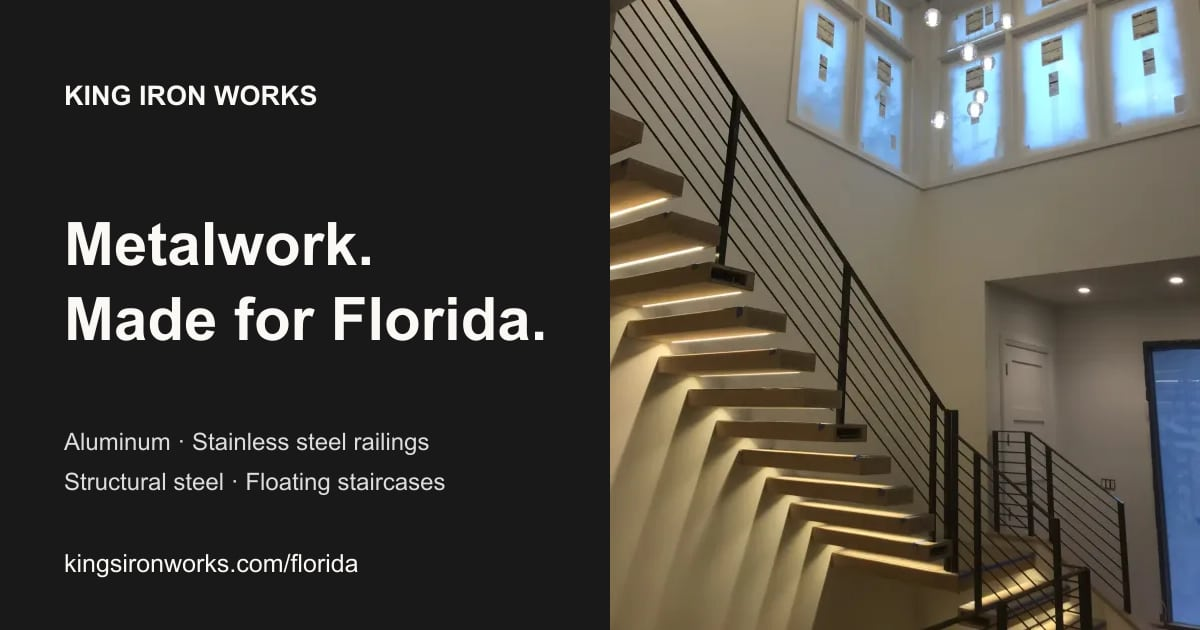
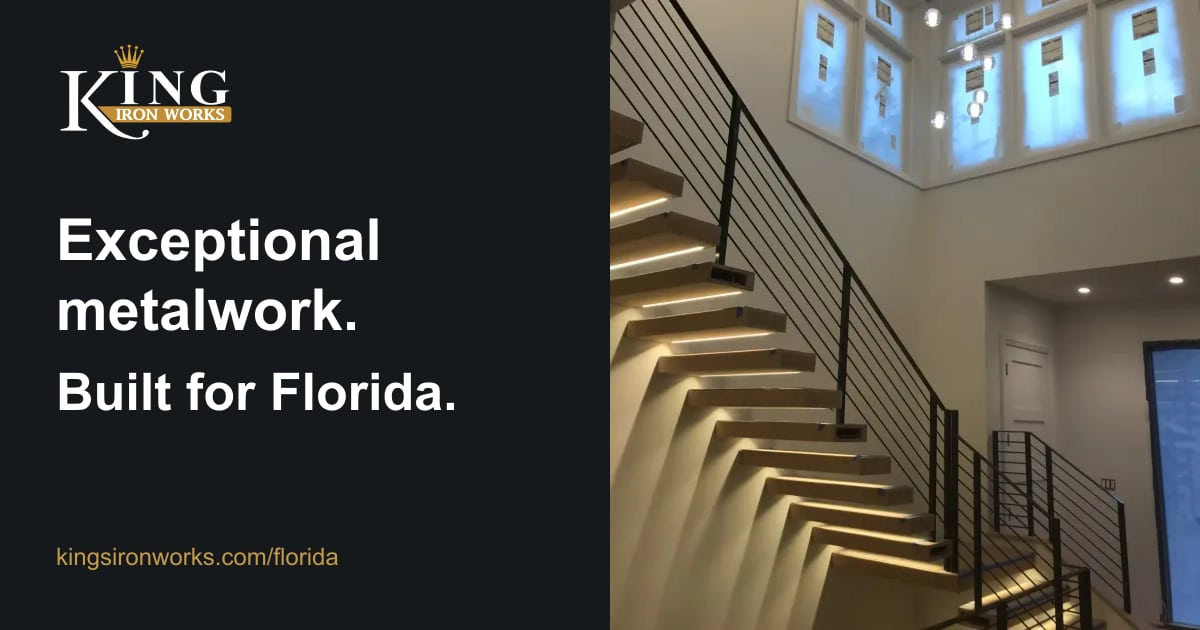
Redesign Florida landing with full company navigation and gold branding

diff --git a/src/app/florida/page.tsx b/src/app/florida/page.tsx
@@ -34,20 +34,22 @@ function Photo({ name, alt, eager = false }: { name: string; alt: string; eager?
 export default function FloridaPage() {
   return <div className="fl-page">
     <a href="#fl-main" className="fl-skip">Skip to content</a>
-    <header className="fl-header fl-wrap"><Link href="/" aria-label="King Iron Works home"><img src="/florida/king-iron-works.svg" alt="King Iron Works" width="160" height="92" /></Link><nav aria-label="Florida navigation"><a href="#services">Services</a><a href="#work">Our work</a><a href="#estimate" className="fl-button">Request an estimate <ArrowUpRight size={17}/></a></nav><a className="fl-header-call" href={`tel:+${phone.tel}`} aria-label="Call King Iron Works Florida"><Phone size={22}/></a></header>
+    <div className="fl-masthead"><div className="fl-utility fl-wrap"><span>Florida operations · Residential &amp; commercial metalwork</span><a href={`tel:+${phone.tel}`}>Florida team {phone.display}</a></div>
+    <header className="fl-header fl-wrap"><Link href="/" aria-label="King Iron Works home"><img src="/florida/king-iron-works.svg" alt="King Iron Works" width="160" height="92" /></Link><nav aria-label="Main website"><Link href="/">Home</Link><Link href="/services">Services</Link><Link href="/portfolio">Projects</Link><Link href="/about">Our company</Link><Link href="/locations">Locations</Link><Link href="/contact">Contact</Link></nav><a href="#estimate" className="fl-button fl-header-estimate">Request an estimate <ArrowUpRight size={17}/></a><details className="fl-mobile-menu"><summary>Menu</summary><nav aria-label="Mobile website"><Link href="/">Home</Link><Link href="/services">All services</Link><Link href="/portfolio">Project portfolio</Link><Link href="/about">Our company</Link><Link href="/locations">Locations</Link><Link href="/contact">Contact</Link><a href="#estimate">Florida estimate</a></nav></details></header></div>
     <main id="fl-main">
-      <section className="fl-hero fl-wrap">
-        <div className="fl-hero-copy"><nav aria-label="Breadcrumb" className="fl-breadcrumb"><Link href="/">Home</Link><span aria-hidden="true">/</span><span>Florida</span></nav><h1>Metalwork.<br/>Made for Florida.</h1><p>Bring your plans to life with metalwork built around your space.</p><div className="fl-actions"><a href="#estimate" className="fl-button">Let’s talk about your project <ArrowUpRight size={18}/></a><a href={`tel:+${phone.tel}`} className="fl-call">{phone.display}</a></div><FloridaLocalArea/></div>
-        <figure className="fl-hero-photo"><Photo name="floating" alt="King Iron Works floating staircase with illuminated treads and slim metal railings" eager/><figcaption>Floating staircase · From our project portfolio</figcaption></figure>
+      <section className="fl-hero">
+        <figure className="fl-hero-photo"><Photo name="floating" alt="King Iron Works floating staircase with illuminated treads and slim metal railings" eager/><figcaption>Floating staircase · King Iron Works project portfolio</figcaption></figure>
+        <div className="fl-wrap fl-hero-inner"><div className="fl-hero-copy"><h1>Exceptional metalwork.<br/>Built for Florida.</h1><p>Architectural detail. Structural strength. Custom fabrication and installation for your next Florida project.</p><div className="fl-actions"><a href="#estimate" className="fl-button">Discuss your project <ArrowUpRight size={18}/></a><Link href="/portfolio" className="fl-hero-secondary">Explore our projects <ArrowUpRight size={18}/></Link></div><FloridaLocalArea/></div></div>
       </section>
-      <section id="services" className="fl-section fl-wrap"><div className="fl-section-intro"><h2>Four specialties.<br/>One considered finish.</h2><p>From the structure you rely on to the details you see every day. Choose the right metalwork for the way your property is built and used.</p></div><div className="fl-services">{services.map(s => <article id={s.id} key={s.id} className="fl-service"><div><h3>{s.title}</h3><p className="fl-service-line">{s.line}</p></div><div><p>{s.text}</p><p>{s.detail}</p><Link href={s.link} className="fl-text-link">{s.label}<ArrowUpRight size={18}/></Link></div></article>)}</div><a href="#estimate" className="fl-text-link">Tell us what you’re planning <ArrowRight size={18}/></a></section>
+      <nav className="fl-service-nav" aria-label="Florida specialties"><div className="fl-wrap">{services.map(s=><a key={s.id} href={`#${s.id}`}>{s.title}<ArrowUpRight size={18}/></a>)}</div></nav>
       <section id="work" className="fl-work"><div className="fl-wrap fl-work-grid"><figure><Photo name="stainless" alt="Open-riser steel staircase with glass panels and stainless steel railing details"/><figcaption>Glass, metal and open treads · King Iron Works portfolio</figcaption></figure><div><h2>Details that make<br/>the whole room.</h2><p>A railing should frame the view. A staircase should connect the space. The best result comes from considering the steel, the finish and the surrounding architecture together.</p><p>Explore our completed work for ideas, then bring us the details of your Florida project.</p><Link href="/portfolio/staircases" className="fl-text-link">View the staircase portfolio <ArrowUpRight size={18}/></Link></div></div><div className="fl-wrap fl-bridge"><div className="fl-bridge-intro"><h2>Built to connect.</h2><div><p>Structural steel that brings an architectural vision together. From beams and columns to a bridge between buildings, every connection starts with a coordinated plan.</p><Link href="/structural-steel" className="fl-text-link">Explore structural steel <ArrowUpRight size={18}/></Link></div></div><figure><Photo name="steel" alt="Steel pedestrian bridge spanning between two buildings during construction"/><figcaption>Steel bridge between buildings · King Iron Works portfolio</figcaption></figure></div></section>
+      <section id="services" className="fl-section fl-wrap"><div className="fl-section-intro"><h2>From structural steel<br/>to the finishing detail.</h2><p>From the structure you rely on to the details you see every day. Choose the right metalwork for the way your property is built and used.</p></div><div className="fl-services">{services.map(s => <article id={s.id} key={s.id} className="fl-service"><div><h3>{s.title}</h3><p className="fl-service-line">{s.line}</p></div><div><p>{s.text}</p><details className="fl-service-detail"><summary>Planning your project</summary><p>{s.detail}</p></details><Link href={s.link} className="fl-text-link">{s.label}<ArrowUpRight size={18}/></Link></div></article>)}</div><a href="#estimate" className="fl-text-link">Tell us what you’re planning <ArrowRight size={18}/></a></section>
       <section className="fl-section fl-wrap"><h2>A clear path from<br/>idea to installation.</h2><ol className="fl-process"><li><h3>Share your project</h3><p>Send your city, photos, approximate dimensions and any drawings. Tell us how the space needs to work and which details matter to you.</p></li><li><h3>Resolve the details</h3><p>We review materials, finishes, site conditions and the scope with you. Measurements, engineering needs and approvals are clarified before work proceeds.</p></li><li><h3>Build around your plans</h3><p>Once the scope is agreed, fabrication and installation are coordinated with your project. The schedule depends on the design, materials and site readiness.</p></li></ol><a href="#estimate" className="fl-text-link">Start with a project review <ArrowRight size={18}/></a></section>
       <section className="fl-area"><div className="fl-wrap fl-section-intro"><h2>Let’s build<br/>in Florida.</h2><div><p>Serving Miami-Dade and Broward counties, with other Florida projects reviewed by location and scope.</p><p>Renovating a home, planning a new build or coordinating commercial work? Send the project address so we can discuss access, timing and the right next step.</p><Link href="/miami" className="fl-text-link">Our Miami service area <ArrowUpRight size={18}/></Link></div></div></section>
       <section className="fl-section fl-wrap fl-faq"><h2>Before you start.</h2><div>{faqs.map(([q,a])=><details key={q}><summary>{q}</summary><p>{a}</p></details>)}</div></section>
       <section id="estimate" className="fl-estimate"><div className="fl-wrap fl-estimate-grid"><div><h2>Your project.<br/>Let’s make it real.</h2><p>Tell us what you have in mind. We’ll review your request and follow up about the details.</p><a className="fl-contact-number" href={`tel:+${phone.tel}`}>{phone.display}</a><p>Prefer to send a photo first?<br/><a className="fl-text-link" href={`sms:+${phone.tel}`}>Text our Florida team <ArrowUpRight size={17}/></a></p></div><FloridaContact/></div></section>
     </main>
-    <footer className="fl-footer fl-wrap"><div><Link href="/">King Iron Works LLC</Link><p>Custom metalwork for Florida.<br/>Headquarters: 69 Norman St, Unit 20, Everett, MA 02149.</p></div><nav aria-label="Footer"><Link href="/portfolio">Portfolio</Link><Link href="/contact">Contact</Link><Link href="/privacy">Privacy</Link><Link href="/terms">Terms</Link></nav><p>© {new Date().getFullYear()} King Iron Works LLC.</p></footer>
+    <footer className="fl-footer fl-wrap"><div><Link href="/">King Iron Works LLC</Link><p>Custom metalwork for Florida.<br/>Headquarters: 69 Norman St, Unit 20, Everett, MA 02149.</p></div><nav aria-label="Footer"><Link href="/">Main website</Link><Link href="/services">All services</Link><Link href="/about">Our company</Link><Link href="/portfolio">Portfolio</Link><Link href="/contact">Contact</Link><Link href="/privacy">Privacy</Link><Link href="/terms">Terms</Link></nav><p>© {new Date().getFullYear()} King Iron Works LLC.</p></footer>
     <FloridaBar/>
     <script type="application/ld+json" dangerouslySetInnerHTML={{__html:JSON.stringify({"@context":"https://schema.org","@graph":[{"@type":"WebSite","@id":"https://kingsironworks.com/#website",name:"King Iron Works",url:"https://kingsironworks.com/"},{"@type":"Service", "@id":`${url}#service`,name:"Custom metalwork in Florida",serviceType:services.map(s=>s.title),description,provider:{"@id":"https://kingsironworks.com"},areaServed:{"@type":"State",name:"Florida"}},{"@type":"BreadcrumbList",itemListElement:[{"@type":"ListItem",position:1,name:"Home",item:"https://kingsironworks.com/"},{"@type":"ListItem",position:2,name:"Florida",item:url}]},{"@type":"FAQPage",mainEntity:faqs.map(([name,text])=>({"@type":"Question",name,acceptedAnswer:{"@type":"Answer",text}}))}]})}}/>
   </div>;

diff --git a/src/app/florida/florida.css b/src/app/florida/florida.css
@@ -7,3 +7,8 @@
 
 .fl-work-grid{align-items:center}.fl-bridge{margin-top:var(--fl-space);padding-top:64px;border-top:1px solid #494949}.fl-bridge-intro{display:grid;grid-template-columns:1.12fr 1fr;gap:80px;margin-bottom:40px}.fl-bridge-intro h2{margin:0}.fl-bridge figure img{aspect-ratio:4/3;object-fit:contain}.fl-page input,.fl-page textarea{caret-color:var(--fl-ink)}
 @media(max-width:760px){.fl-bridge{padding-top:40px}.fl-bridge-intro{grid-template-columns:1fr;gap:16px;margin-bottom:28px}.fl-bridge-intro h2{margin:0}}
+/* Florida flagship landing: full company navigation, gold brand, project-led entry. */
+.fl-page{--fl-ink:#15191c;--fl-gold:#c59a4b;--fl-stone:#f2f0eb}.fl-masthead{background:#15191c;color:#fff}.fl-utility{display:flex;justify-content:space-between;gap:24px;border-bottom:1px solid #ffffff24;padding-block:10px;font-size:12px;letter-spacing:.02em}.fl-utility a{font-weight:600}.fl-header{height:114px;border:0}.fl-header img{width:154px;height:90px}.fl-header nav{gap:24px}.fl-header nav>a{font-size:13px}.fl-button{background:var(--fl-gold);color:#141719;border-radius:2px}.fl-header-estimate{font-size:13px;min-height:48px;padding-inline:18px}.fl-mobile-menu{display:none}.fl-hero{display:block;position:relative;background:#15191c;color:#fff;padding:0;isolation:isolate;overflow:hidden}.fl-hero-inner{min-height:700px;display:flex;align-items:center;position:relative;z-index:2}.fl-hero-copy{max-width:730px;padding:90px 0}.fl-hero h1{font-size:clamp(48px,5.6vw,80px);font-weight:600;line-height:1.05;max-width:15ch;margin-bottom:30px}.fl-hero-copy>p{color:#e1e3e3;font-size:19px;max-width:43ch}.fl-hero-photo{position:absolute;inset:0 0 0 35%;height:100%;z-index:0}.fl-hero-photo img{object-position:center 65%}.fl-hero:after{content:"";position:absolute;inset:0;background:linear-gradient(90deg,#15191c 12%,rgba(21,25,28,.94) 32%,rgba(21,25,28,.35) 62%,rgba(21,25,28,.05) 100%);z-index:1;pointer-events:none}.fl-hero-photo figcaption{left:auto;background:#15191ce6;padding:12px 20px;z-index:3}.fl-actions{flex-direction:row;align-items:center;gap:28px;margin-top:36px}.fl-hero-secondary{display:inline-flex;align-items:center;gap:12px;min-height:48px;font-size:15px;font-weight:600;border-bottom:1px solid #ffffff80}.fl-hero-copy .fl-hero-note{color:#c3c8ca;margin-top:40px}.fl-service-nav{background:#20262a;color:white}.fl-service-nav>.fl-wrap{display:grid;grid-template-columns:repeat(4,1fr)}.fl-service-nav a{min-height:88px;display:flex;justify-content:space-between;align-items:center;padding:20px 24px;border-right:1px solid #ffffff24;font-size:15px;gap:16px}.fl-service-nav a:first-child{padding-left:0}.fl-service-nav a:last-child{border:0}.fl-service-nav svg{flex-shrink:0}.fl-work{background:#f5f3ef;color:var(--fl-ink)}.fl-work p,.fl-work figcaption{color:#555d61}.fl-work-grid{grid-template-columns:1fr 1fr;gap:96px}.fl-work-grid>figure img{max-height:680px;object-fit:cover}.fl-work h2{font-size:clamp(36px,4vw,58px)}.fl-bridge{border-color:#c8c9c6}.fl-service-detail{margin:16px 0;color:var(--fl-muted)}.fl-service-detail summary{cursor:pointer;min-height:44px;display:list-item;font-size:14px;font-weight:600}.fl-service-detail p{margin-top:12px}.fl-footer{border-top:1px solid var(--fl-line)}
+@media(max-width:1100px){.fl-header nav{gap:14px}.fl-header-estimate{display:none}.fl-hero h1{font-size:64px}.fl-work-grid{gap:48px}}
+@media(max-width:760px){.fl-utility{font-size:10px;padding-block:8px}.fl-utility span{max-width:210px}.fl-utility>a{display:none}.fl-header{height:92px}.fl-header img{width:128px;height:74px}.fl-header>nav{display:none}.fl-mobile-menu{display:block}.fl-mobile-menu summary{min-height:48px;display:flex;align-items:center;cursor:pointer;font-size:14px;border:1px solid #ffffff55;padding:8px 16px}.fl-mobile-menu nav{display:flex;position:absolute;top:132px;left:0;right:0;background:#15191c;z-index:20;padding:20px 24px;flex-direction:column;align-items:stretch;gap:0;border-bottom:1px solid #ffffff33}.fl-mobile-menu nav a{min-height:48px;display:flex;align-items:center;border-bottom:1px solid #ffffff20}.fl-hero-inner{min-height:710px;align-items:flex-start}.fl-hero-copy{padding:48px 0 260px;max-width:100%}.fl-hero h1{font-size:44px;line-height:1.07;max-width:13ch;margin-bottom:24px}.fl-hero-copy>p{font-size:16px;max-width:35ch}.fl-hero-photo{inset:0;left:0;height:100%}.fl-hero-photo img{object-position:center bottom}.fl-hero:after{background:linear-gradient(180deg,#15191c 0%,rgba(21,25,28,.97) 30%,rgba(21,25,28,.65) 54%,rgba(21,25,28,.02) 80%)}.fl-actions{align-items:flex-start;flex-direction:column;gap:12px;margin-top:28px}.fl-hero-secondary{min-height:44px}.fl-hero-copy .fl-hero-note{font-size:12px;margin-top:24px}.fl-hero-photo figcaption{font-size:10px;max-width:100%;padding:10px 16px}.fl-service-nav>.fl-wrap{grid-template-columns:1fr 1fr}.fl-service-nav a{font-size:13px;min-height:76px;padding:16px 12px;border-bottom:1px solid #ffffff24}.fl-service-nav a:first-child{padding-left:12px}.fl-service-nav a:nth-child(2n){border-right:0}.fl-work-grid{grid-template-columns:1fr;gap:32px}.fl-work h2{font-size:36px}.fl-work-grid>figure img{max-height:500px}.fl-bridge-intro{gap:24px}}
+.fl-masthead{position:relative}.fl-mobile-menu nav{top:100%}

diff --git a/docs/DESIGN.md b/docs/DESIGN.md
@@ -1,11 +1,40 @@
 # Florida landing page design
-Extension of the existing King Iron Works identity, not a rebrand.
-Space Grotesk headings, Inter body. Charcoal #191919, white #ffffff, subdued text #555555, pale gray #f3f3f3. Monochrome controls: charcoal fill with white text. Owner requested black-and-white brand presentation on October 21.
-Type: 14/16/18/24/32/48/72px, fluid display 44–80px, line-height 1.05 display and 1.65 body.
-Spacing: 8/16/24/32/48/64/96/128px; 1200px content width; 24px phone gutters.
-Sharp photographic frames, 4px control corners, no card shadows. Focus outline 2px charcoal or white on dark. Motion: 160ms transform/opacity, reduced-motion off.
-Composition: light split hero with large real staircase photograph; four service rows; dark project feature followed by a full-width structural bridge photograph; process; Florida service area; FAQ; inline estimate form and compact local contact footer.
-Do not imply portfolio images were made in Florida. No unverified reviews, licensing or guarantees.
-Mobile: controls at least 44px, 16px inputs, safe-area bottom bar, bar hidden while entering form data.
 
-October 21 refinement: official black SVG logo at its true 1.73:1 ratio (160×92 desktop, 128×74 phone), clean header rule, monochrome CTAs. Structural photo 21 shows a bridge between buildings and receives a full-width feature. Portfolio attribution remains location-neutral.
+## Overview
+
+Extension of the existing King Iron Works identity, not a rebrand. The October 21 second owner direction is current and supersedes the earlier monochrome controls, black logo and light split hero. Use the official white-and-gold logo, charcoal masthead, photographic hero and project-led content order.
+
+## Colors
+
+Charcoal #15191c, white #ffffff, subdued text #555555, pale stone #f2f0eb and warm portfolio background #f5f3ef. Primary controls use brass #c59a4b with #141719 text. The official SVG retains its white and gold artwork (#FFFFFF, #C38D35, #D4A034).
+
+## Typography
+
+Space Grotesk headings, Inter body. Hero display uses clamp(48px,5.6vw,80px), weight 600 and line-height 1.05; at 1100px and below it is 64px, and at 760px and below 44px with line-height 1.07. General section headings use clamp(32px,3.5vw,50px); portfolio headings use clamp(36px,4vw,58px), becoming 36px on phone. Body is 16px/1.65; hero supporting text is 19px desktop and 16px phone.
+
+## Layout
+
+Content width is capped at 1248px with 48px desktop gutters; below 1000px, gutters are 24px. Section spacing uses clamp(64px,8vw,112px). Header height is 114px desktop and 92px phone, excluding the utility strip.
+
+Page order: company masthead; full-width photographic hero; four-service jump navigation; staircase portfolio and structural bridge feature; detailed service rows; process; Florida service area; FAQ; inline estimate form; company footer. The bridge spans the content container, with its full 4:3 image contained in the frame. Hero photography uses a dark directional overlay behind text.
+
+## Elevation & Depth
+
+No card shadows. Photography, tonal sections and divider lines supply depth. The fixed mobile contact bar uses a subtle upward shadow. Controls transition transform and opacity over 160ms; reduced-motion disables transitions and animation.
+
+## Shapes
+
+Sharp photographic frames. Primary buttons have 2px corners; form fields retain 4px corners.
+
+## Components
+
+Official white-and-gold SVG logo: intrinsic ratio approximately 1.73:1, displayed within a 154×90px desktop box and 128×74px phone box using object-fit contain. Desktop navigation links to Home, Services, Projects, Our company, Locations and Contact. At 760px and below, a native disclosure labeled Menu exposes company navigation and the Florida estimate link below the masthead.
+
+Primary actions are gold. Focus outlines use 2px currentColor on links/buttons and charcoal on fields. Mobile controls are at least 44px, inputs use 16px type, and the bottom contact bar accounts for the safe area and hides while entering form data. Service planning details and FAQs use native disclosures.
+
+## Do's and Don'ts
+
+- Do preserve official logo artwork, real project photographs and location-neutral portfolio attribution.
+- Do keep projects ahead of detailed service copy and retain the structural bridge feature.
+- Don't imply portfolio photographs were made in Florida.
+- Don't invent reviews, scale metrics, licensing, credentials or guarantees.

diff --git a/HANDOFF.md b/HANDOFF.md
@@ -50,3 +50,7 @@ Baseline in `docs/search-baseline.md`. Existing www sitemap, submitted in 2020, 
 ## October 21 owner design refinement
 
 Replaced the small structural installation image with the requested real steel bridge between two buildings (portfolio Structural-Steel photo 21), now featured full-width with a structural-service link. Corrected the official logo's aspect ratio and increased its visual presence. The page and share card now use monochrome brand accents instead of gold. Rechecked 390px and 1440px: no horizontal overflow; photos render correctly. Production build and public build audit pass: 0 errors / 3,955 warnings. Updated screenshots in florida-checks. Deployment remains pending the unresolved native form access/configuration and end-to-end delivery check; prior Lighthouse reports predate this visual refinement.
+
+## October 21 company-scale redesign
+
+Owner rejected the sparse monochrome presentation. Replaced it with the official white-and-gold logo, charcoal masthead, full company navigation (Home, Services, Projects, Our company, Locations, Contact), mobile disclosure menu, large photographic hero, gold estimate CTA, portfolio CTA and four-service jump navigation. Project photography now precedes detailed service content; planning details are expandable. Bridge feature retained. Desktop/phone captures updated; mobile menu verified with all seven destinations and no horizontal overflow at 390px. Production build and house build audit: 0 errors / 3,955 warnings. Live deployment remains blocked by the previously documented CRM form permission/configuration; no new live audit is claimed.
